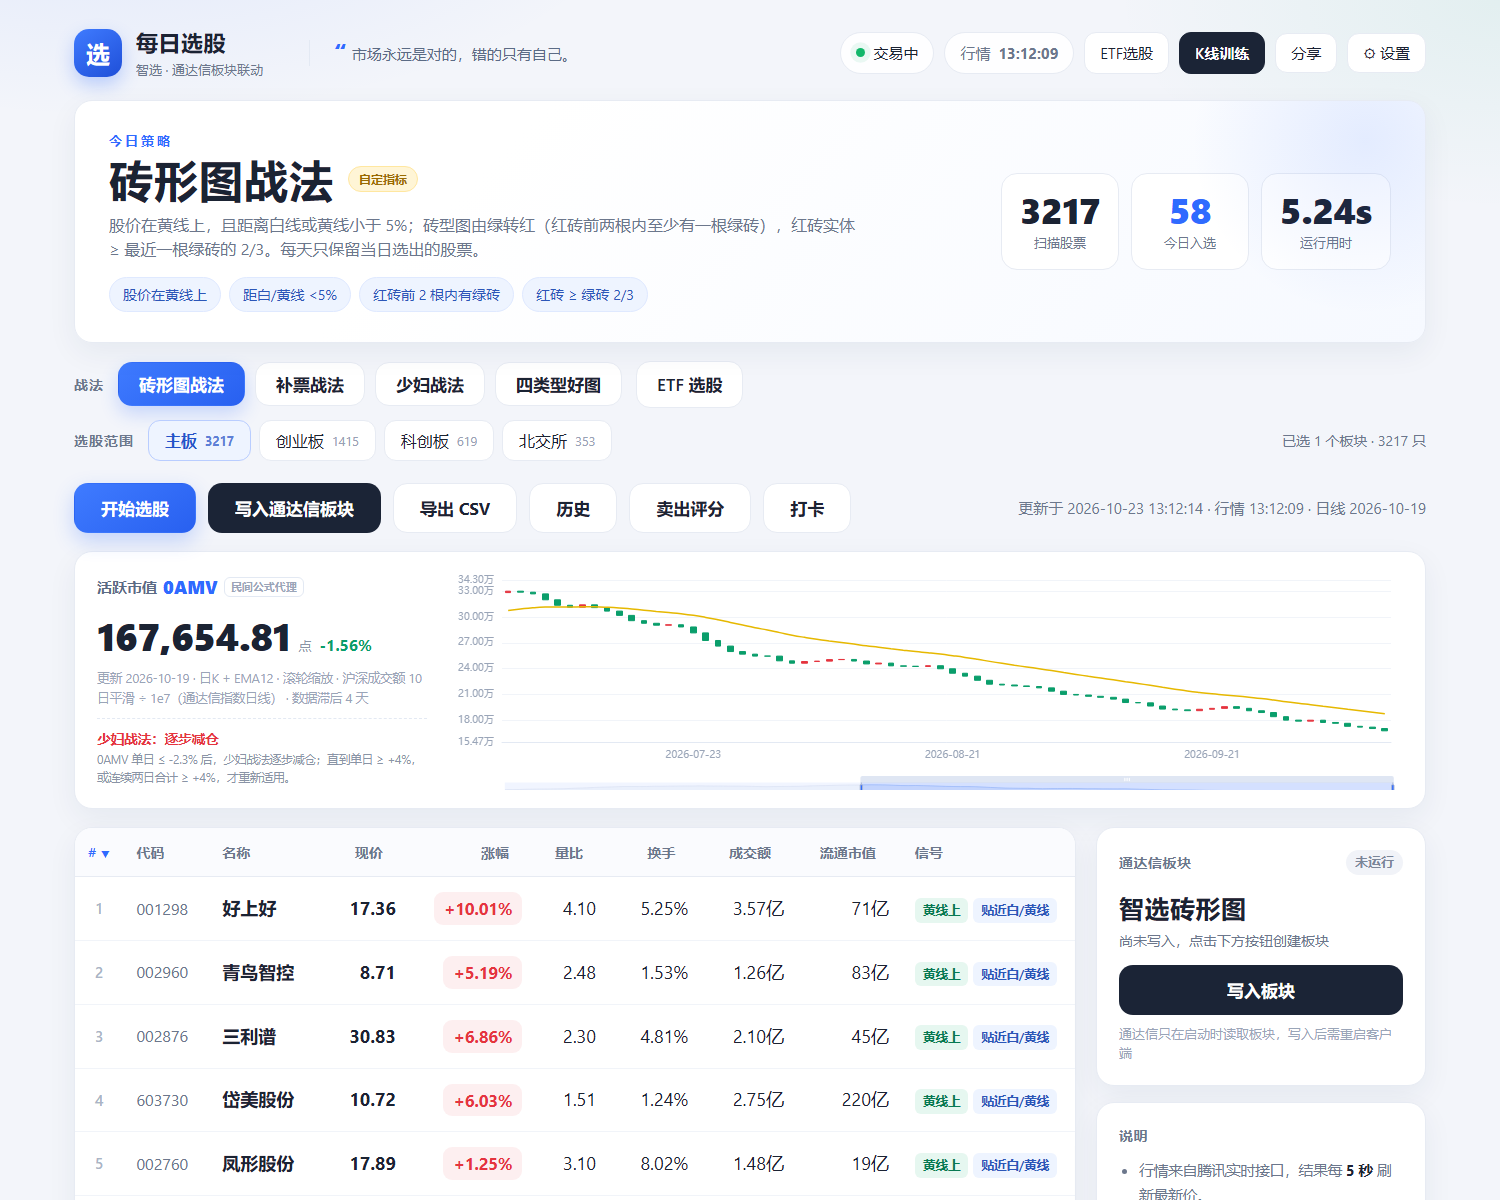
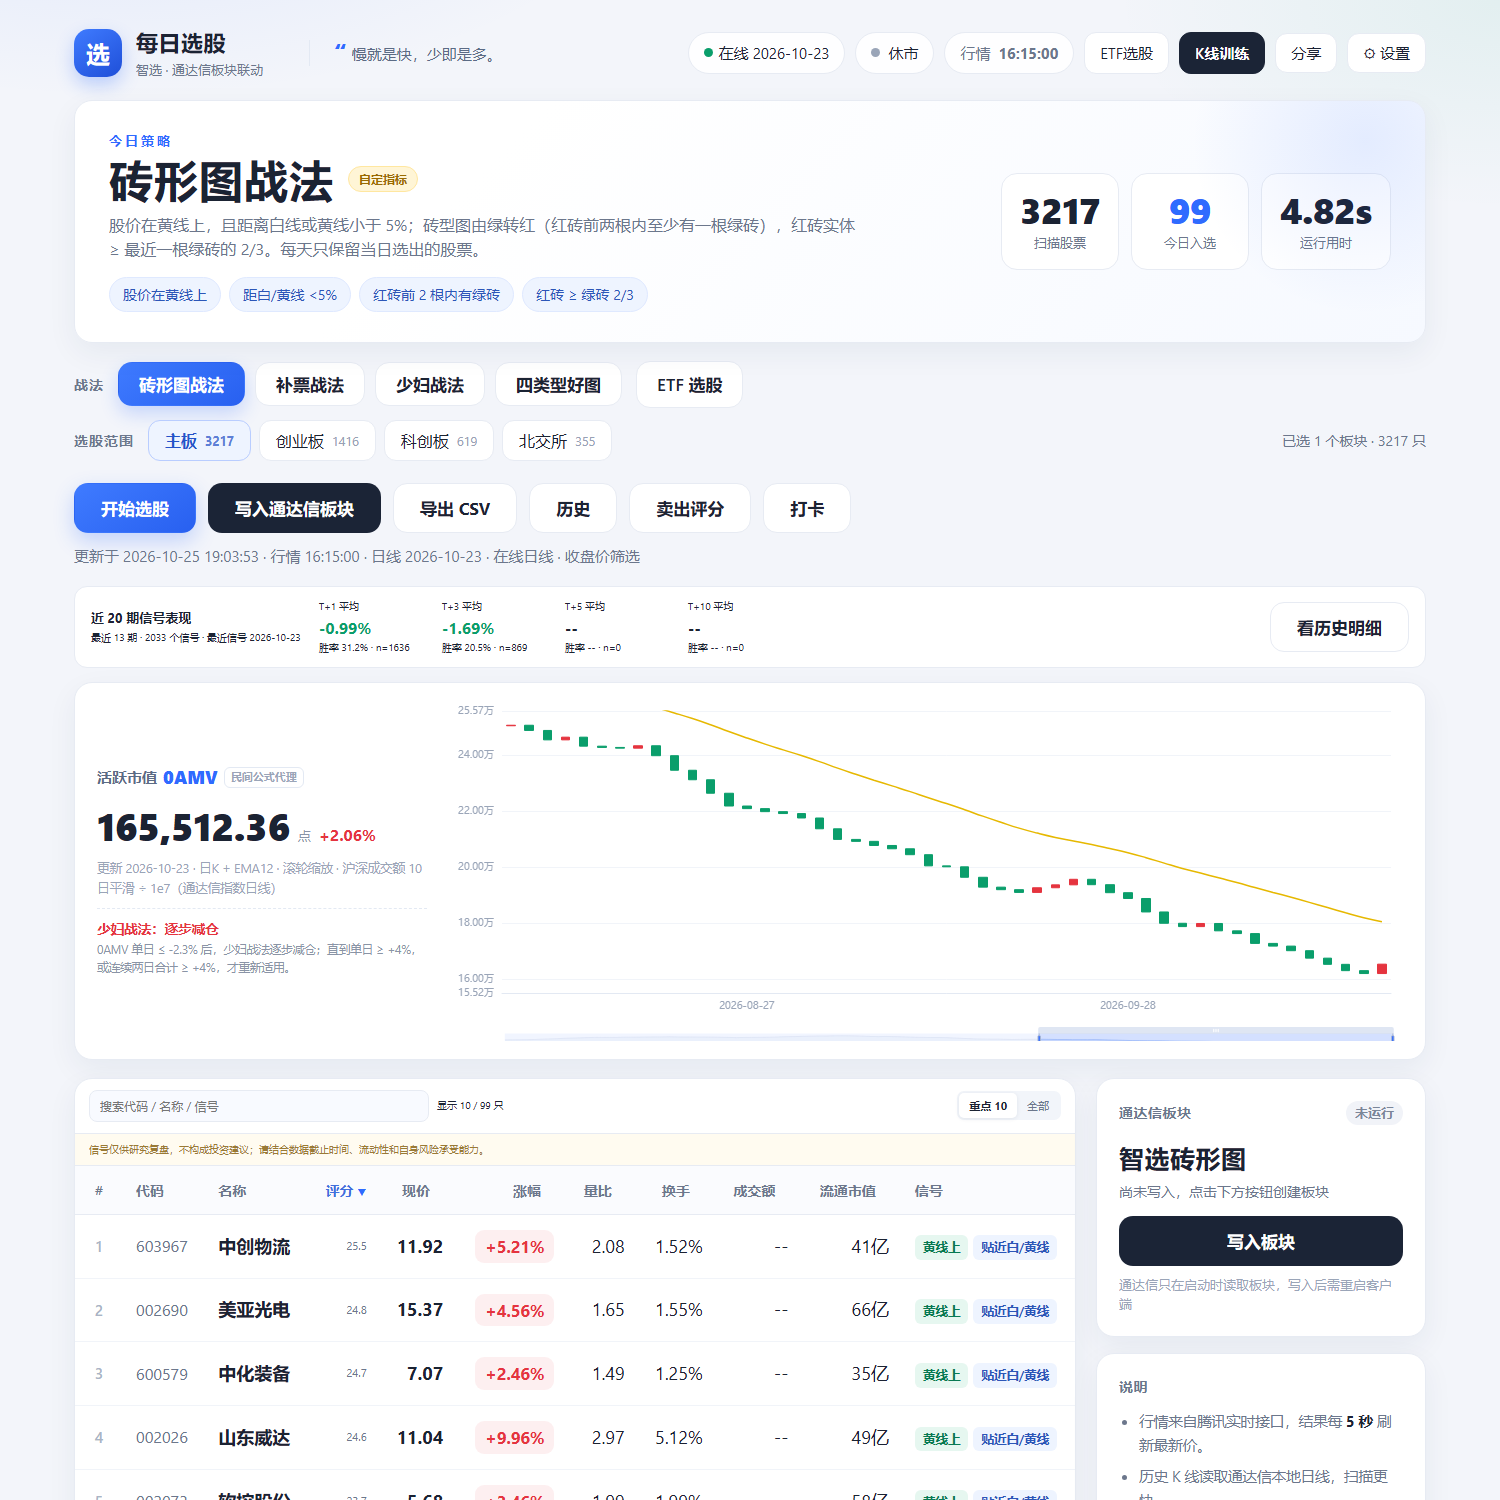
style: 加长0AMV图表并优化K线比例；修正周末滞后误报

diff --git a/web/app.js b/web/app.js
@@ -1,4 +1,4 @@
-/* ===== 每日选股 前端逻辑 ===== */
+/* ===== 每日选股 前端逻辑 ===== */
 (function () {
   "use strict";
 
@@ -1701,7 +1701,7 @@
     chg.textContent = (d.chg >= 0 ? "+" : "") + Number(d.chg).toFixed(2) + "%";
     chg.className = "amv-chg " + (d.chg >= 0 ? "up" : "down");
     let sub = "更新 " + d.last_date + " · 日K + EMA12 · 滚轮缩放 · 沪深成交额 10 日平滑 ÷ 1e7（通达信指数日线）";
-    if (d.stale_days > 1) sub += " · 数据滞后 " + d.stale_days + " 天";
+    if (d.stale_days > 1) sub += " · 数据滞后 " + d.stale_days + " 个交易日";
     $("amvSub").textContent = sub;
 
     if (amvChart) { amvChart.dispose(); amvChart = null; }
@@ -1737,7 +1737,7 @@
       const pad = (mx - mn) * 0.08 || mx * 0.005;
       return [mn - pad, mx + pad];
     };
-    const initialStart = 40;
+    const initialStart = 60;
     const initRange = rangeFor(initialStart, 100);
     amvChart.setOption({
       animation: false,
@@ -1780,7 +1780,7 @@
           handleStyle: { color: "#2f6bff" }, textStyle: { fontSize: 9, color: "#9aa5b8" } },
       ],
       series: [{
-        name: "0AMV", type: "candlestick", data: ohlc, barMaxWidth: 10,
+        name: "0AMV", type: "candlestick", data: ohlc, barMaxWidth: 16,
         itemStyle: {
           color: "#e5343f", color0: "#0a9e6b",
           borderColor: "#e5343f", borderColor0: "#0a9e6b",
@@ -1881,5 +1881,7 @@
 
   init();
 })();
+
+
 
 

diff --git a/web/style.css b/web/style.css
@@ -1,4 +1,4 @@
-/* ===== 每日选股 · 简洁大字号界面 ===== */
+/* ===== 每日选股 · 简洁大字号界面 ===== */
 :root {
   --bg: #f3f5fa;
   --card: #ffffff;
@@ -908,7 +908,7 @@ tbody tr.clickable:hover { background: #f7faff; }
 /* ---------- 0AMV active market value ---------- */
 .amv-card {
   display: flex; gap: 24px; align-items: stretch;
-  padding: 18px 22px; margin: 0 0 18px; min-height: 240px;
+  padding: 18px 22px; margin: 0 0 18px; min-height: 340px;
 }
 .amv-left { flex: 0 0 330px; display: flex; flex-direction: column; justify-content: center; min-width: 0; }
 .amv-title { font-size: 15px; font-weight: 700; color: #5b6b85; display: flex; align-items: center; gap: 6px; flex-wrap: wrap; }
@@ -924,12 +924,12 @@ tbody tr.clickable:hover { background: #f7faff; }
 .amv-chg.up { color: #e5343f; }
 .amv-chg.down { color: #0a9e6b; }
 .amv-sub { font-size: 12.5px; color: #9aa5b8; line-height: 1.6; }
-.amv-chart { flex: 1; min-width: 0; height: 220px; }
+.amv-chart { flex: 1; min-width: 0; height: 340px; }
 @media (max-width: 760px) {
   .amv-card { flex-direction: column; gap: 10px; padding: 14px; }
   .amv-left { flex: auto; }
   .amv-value b { font-size: 30px; }
-  .amv-chart { height: 150px; }
+  .amv-chart { height: 260px; }
 }
 
 
@@ -1036,3 +1036,4 @@ table td.score { color: var(--muted); font-family: var(--mono); font-size: 11px;
   .perf-strip { align-items: flex-start; }
   .perf-metrics { gap: 12px; }
 }
+

diff --git a/core/amv.py b/core/amv.py
@@ -1,11 +1,11 @@
-# -*- coding: utf-8 -*-
+# -*- coding: utf-8 -*-
 """0AMV 活跃市值（活筹指数）代理指标。
 
 指南针未公开原版算法；这里按公开流传的民间公式：
     VAR1 = SMA(沪深全市场成交额, 10, 1) / 1e7
 成交额取通达信本地「上证指数 + 深证综指」日线的 amount 字段。
 """
-from datetime import datetime
+from datetime import datetime, timedelta
 
 from core import config
 from core.tdx_local import TdxStore
@@ -69,7 +69,12 @@ def compute(days=160):
     stale_days = 0
     try:
         last_dt = datetime.strptime(last["date"], "%Y-%m-%d").date()
-        stale_days = (datetime.now().date() - last_dt).days
+        cur = last_dt
+        today = datetime.now().date()
+        while cur < today:
+            cur += timedelta(days=1)
+            if cur.weekday() < 5:
+                stale_days += 1
     except ValueError:
         pass
 
@@ -84,4 +89,5 @@ def compute(days=160):
         "stale_days": stale_days,
         "series": series[-days:],
     }
+
 

diff --git a/README.md b/README.md
@@ -1,4 +1,4 @@
-# 每日选股 · 智选
+# 每日选股 · 智选
 
 ![界面预览](docs/screenshot.png)
 
@@ -473,7 +473,7 @@ python tools\sync_release.py --skip-shortcut
 
 选股区中间新增「活跃市值 0AMV」卡片，显示当前值、日变化和最近 120 个交易日的日 K 线（红绿砖 + EMA12 平滑线），支持滚轮/滑块缩放，悬停显示开收高低和涨跌幅。
 
-- 公式：公开流传的民间 0AMV 口径 `SMA(沪深全市场成交额, 10, 1) / 1e7`
+- 公式：公开流传的民间 0AMV 口径 SMA(沪深全市场成交额, 10, 1) / 1e7$add
 - 成交额来源：通达信本地「上证指数 + 深证综指」日线的 amount 字段，不额外联网
 - 指南针未公开原版算法，本卡片是**代理指标**，形态接近但不保证与客户端数值完全一致
 
@@ -496,5 +496,6 @@ python tools\sync_release.py --skip-shortcut
 - 悬停提示包含：开/收/高/低、**本根收益率**、**可见区间收益率**、白/黄线、K/D/J、成交量（指标两位小数）
 
 **归类说明**：ETF 持仓和行业归属没有稳定的本地数据，目前按**基金名称/跟踪指数**归类（如名称含「半导体」→ 半导体，含「科技」→ 电子+计算机），不是真实持仓穿透，仅供参考。后续可接基金持仓数据做精确归类。
+
 
 
